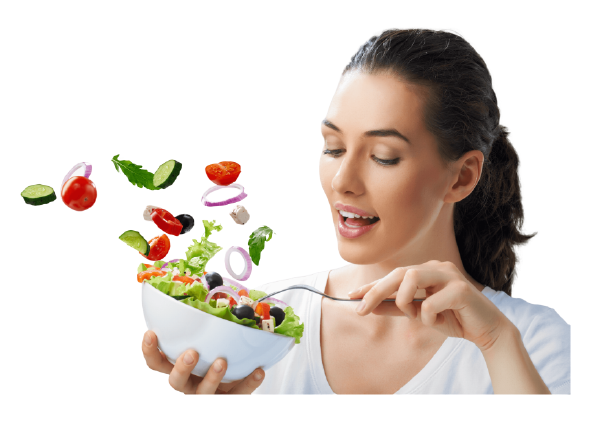
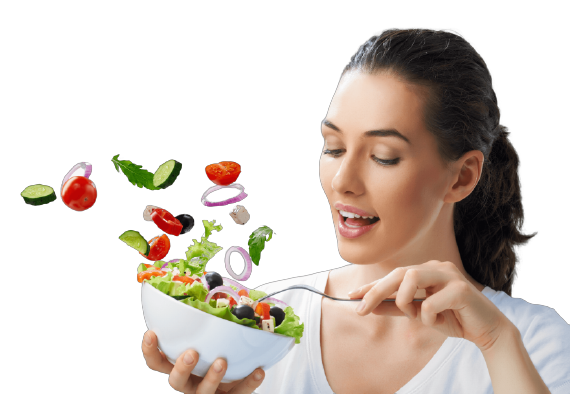
fixed-image

diff --git a/index.html b/index.html
@@ -1,98 +1,124 @@
 <!DOCTYPE html>
 <html lang="en">
-<head>
-    <meta charset="UTF-8">
-    <meta name="viewport" content="width=device-width, initial-scale=1.0">
+  <head>
+    <meta charset="UTF-8" />
+    <meta name="viewport" content="width=device-width, initial-scale=1.0" />
     <title>Food Factory</title>
-    <link rel="preconnect" href="https://fonts.googleapis.com">
-    <link rel="preconnect" href="https://fonts.gstatic.com" crossorigin>
+    <link rel="preconnect" href="https://fonts.googleapis.com" />
+    <link rel="preconnect" href="https://fonts.gstatic.com" crossorigin />
     <link
-        href="https://fonts.googleapis.com/css2?family=Belanosima&family=Oswald:wght@300;400&family=Poppins&family=Signika+Negative&display=swap"
-        rel="stylesheet">
-    <link rel="shortcut icon" href="images/female/02.png" type="image/x-icon">
-    <link rel="stylesheet" href="style.css">
-</head>
-<body>
-    <section class="section01">
-        <div class="half-width para01">
-            <h1><span class="orange">Skip</span> The Diet</h1>
-            <h1>Just Eat Healthy</h1>
-            <h1>With Food Network</h1>
-            <p>Indulge your taste buds in a tantalizing culinary experience with our exceptional offerings. At our establishment, we
-            take pride in providing you with a diverse array of healthy and delicious food that will leave you craving for more.
-            Each dish is meticulously crafted using the freshest ingredients, ensuring a harmonious blend of flavors that awaken
-            your senses.</p>
-            <p class="button">
-            <a class="button-config" target="_blank" href="">Order Now</a>
-            </p>
-        </div>
-        <div class="half-width">
-            <img class="img01" src="images/female/01.png" alt="">
-        </div>
+      href="https://fonts.googleapis.com/css2?family=Belanosima&family=Oswald:wght@300;400&family=Poppins&family=Signika+Negative&display=swap"
+      rel="stylesheet"
+    />
+    <link rel="shortcut icon" href="images/female/02.png" type="image/x-icon" />
+    <link rel="stylesheet" href="style.css" />
+  </head>
 
+  <body>
+    <section class="section01">
+      <div class="half-width para01">
+        <h1><span class="orange">Skip</span> The Diet</h1>
+        <h1>Just Eat Healthy</h1>
+        <h1>With Food Network</h1>
+        <p>
+          Indulge your taste buds in a tantalizing culinary experience with our
+          exceptional offerings. At our establishment, we take pride in
+          providing you with a diverse array of healthy and delicious food that
+          will leave you craving for more. Each dish is meticulously crafted
+          using the freshest ingredients, ensuring a harmonious blend of flavors
+          that awaken your senses.
+        </p>
+        <p class="button">
+          <a class="button-config" target="_blank" href="">Order Now</a>
+        </p>
+      </div>
+      <div class="half-width">
+        <img class="img01" src="images/female/01.png" alt="" />
+      </div>
     </section>
     <section class="section02">
-
-        <div class="half-width img02">
-            <img src="images/female/05.png" alt="">
-        </div>
-        <div class="half-width para02">
-            <h1>About Us</h1>
-            <p>Skipping diets and focusing on eating healthy is a smart choice for long-term well-being. Food Network can be a valuable
-            resource in this journey, providing an array of nutritious recipes and cooking tips. By exploring their wide range of
-            culinary options, individuals can discover delicious, wholesome meals that satisfy both their taste buds and nutritional
-            needs. Embracing a healthy eating lifestyle with the help of Food Network can lead to improved overall health and a more
-            enjoyable relationship with food.</p>
-            <p class="button">
-                <a class="button-config" target="_blank" href="">Read More</a>
-            </p>  
-       </div>
+      <div class="half-width img02">
+        <img src="images/female/05.png" alt="" />
+      </div>
+      <div class="half-width para02">
+        <h1>About Us</h1>
+        <p>
+          Skipping diets and focusing on eating healthy is a smart choice for
+          long-term well-being. Food Network can be a valuable resource in this
+          journey, providing an array of nutritious recipes and cooking tips. By
+          exploring their wide range of culinary options, individuals can
+          discover delicious, wholesome meals that satisfy both their taste buds
+          and nutritional needs. Embracing a healthy eating lifestyle with the
+          help of Food Network can lead to improved overall health and a more
+          enjoyable relationship with food.
+        </p>
+        <p class="button">
+          <a class="button-config" target="_blank" href="">Read More</a>
+        </p>
+      </div>
     </section>
-   <div class="para03">
-    <h1>Our Recipies</h1>
-    <p>Our Healthy diet recipes are made by choosing lean proteins, whole grains, plenty of fruits and vegetables, and
-        minimizing
-        added sugars and unhealthy fats.</p>
-   </div>
-   <section>
-    <div class="recipies-para">
-        <img class="img-bottom" src="images/food/Avocado-toast.jpg" alt="">
+    <div class="para03">
+      <h1>Our Recipies</h1>
+      <p>
+        Our Healthy diet recipes are made by choosing lean proteins, whole
+        grains, plenty of fruits and vegetables, and minimizing added sugars and
+        unhealthy fats.
+      </p>
+    </div>
+    <section>
+      <div class="recipies-para">
+        <img class="img-bottom" src="images/food/Avocado-toast.jpg" alt="" />
         <h1>Avocado Toast</h1>
-        <p>Mash ripe avocado onto whole grain toast, sprinkle with salt, pepper, and red pepper flakes for a quick
-        and nutritious breakfast or snack.</p>
-    </div>
-    <div class="recipies-para">
-        <img class="img-bottom" src="images/food/grilled.jpg" alt="">
+        <p>
+          Mash ripe avocado onto whole grain toast, sprinkle with salt, pepper,
+          and red pepper flakes for a quick and nutritious breakfast or snack.
+        </p>
+      </div>
+      <div class="recipies-para">
+        <img class="img-bottom" src="images/food/grilled.jpg" alt="" />
         <h1>Grilled Chicken Salad</h1>
-        <p>Grill chicken breast and serve on a bed of mixed greens, cherry tomatoes, sliced cucumbers, and a
-        squeeze of lemon for a protein-packed and satisfying salad.</p>
-    </div>
-    <div class="recipies-para">
-        <img class="img-bottom" src="images/food/baked-salmon-in-foil-recipe.jpg" alt="">
+        <p>
+          Grill chicken breast and serve on a bed of mixed greens, cherry
+          tomatoes, sliced cucumbers, and a squeeze of lemon for a
+          protein-packed and satisfying salad.
+        </p>
+      </div>
+      <div class="recipies-para">
+        <img
+          class="img-bottom"
+          src="images/food/baked-salmon-in-foil-recipe.jpg"
+          alt=""
+        />
         <h1>Salmon and Asparagus Foil Pack</h1>
-        <p>Place salmon fillet and asparagus spears on a sheet of foil, drizzle with lemon juice,
-        and season with herbs. Seal the foil and bake for an easy and nutritious dinner.</p>
-
-    </div>
-   </section>
-   <section class="section04">
-   <div class="social-media">
+        <p>
+          Place salmon fillet and asparagus spears on a sheet of foil, drizzle
+          with lemon juice, and season with herbs. Seal the foil and bake for an
+          easy and nutritious dinner.
+        </p>
+      </div>
+    </section>
+    <section class="section04">
+      <div class="social-media">
         <h1>700k</h1>
         <p>YouTube Subscribers</p>
-    </div>
-    <div class="social-media">
+      </div>
+      <div class="social-media">
         <h1>2.4m</h1>
         <p>Instagram Followers</p>
-    </div>
-    <div class="social-media">
+      </div>
+      <div class="social-media">
         <h1>100k</h1>
         <p>Dribble Likes</p>
-    </div>
+      </div>
     </section>
     <footer>
-        <h1><span class="orange">FOOD</span> NETWORK</h1>
-        <p><span class="white">Eat healthy to live healthy. Live healthy to live happy.</span> </p>
-        <p>© Musleh 2023 , Practicing Web Developing.</p>
+      <h1><span class="orange">FOOD</span> NETWORK</h1>
+      <p>
+        <span class="white"
+          >Eat healthy to live healthy. Live healthy to live happy.</span
+        >
+      </p>
+      <p><small>© Musleh 2023 , Practicing Web Developing.</small></p>
     </footer>
-</body>
+  </body>
 </html>

diff --git a/style.css b/style.css
@@ -1,42 +1,51 @@
-body{
+body {
     font-family: 'Belanosima', sans-serif;
     color: rgb(36, 36, 36);
     margin: 0;
     width: fit-content;
-    }
+}
+
 .orange {
     color: rgb(255, 111, 0) !important;
-}    
-h1 { 
+}
+
+h1 {
     font-weight: bold !important;
 }
+
 section {
     display: flex !important;
 }
+
 .half-width {
     width: 50%;
 }
+
 .para01 {
     margin-left: 80px;
     margin-top: 110px;
-    
+
 }
+
 img {
     max-width: 100%;
     max-height: 100%;
 }
+
 .img01 {
-    margin-left: px;
-    width: 100%;
-    
-   
+
+    width: 90%;
+    margin-left: 70px;
+    margin-top: -16px;
 }
+
 .section01 {
     background-image: url(images/shapes/7.png);
     background-size: 100%;
     background-repeat: no-repeat;
-    
-    }
+
+}
+
 .button-config {
     font-weight: 500;
     background-image: linear-gradient(to right, orange, rgba(255, 0, 0, 0.662));
@@ -47,13 +56,15 @@ img {
     cursor: ;
     /* box-shadow: 0 0 5px 1px rgba(255, 153, 0, 0.586); */
     font-size: smaller;
-   }
-   .button-config:hover{
+}
+
+.button-config:hover {
     box-shadow: 0 0 5px 1px rgba(255, 153, 0, 0.586);
-   }
+}
+
 .button {
     margin-top: 20px;
-   }
+}
 
 .section02 {
     background-image: url(images/shapes/Frame56.jpg);
@@ -61,28 +72,34 @@ img {
     background-repeat: no-repeat;
     margin-bottom: 20px;
     margin-top: -14px;
-   }
+}
+
 .img02 {
     margin-top: 100px;
     margin-left: 100PX;
     height: 500px;
-   }
+}
+
 .para02 {
     margin-top: 150px;
     margin-right: 50px;
-   }
+}
+
 .para03 {
     text-align: center;
     margin-top: 50px;
-   }
-   .para03 p{ 
+}
+
+.para03 p {
     width: 45%;
     margin: 0 30% 50px 30%;
-   }
-   .img-bottom {
+}
+
+.img-bottom {
     width: 500px;
     border-radius: 25px;
 }
+
 .recipies-para {
     margin-left: 3%;
     margin-right: 3%;
@@ -92,33 +109,38 @@ img {
     padding: 15px;
     width: 30%;
     margin-bottom: 80px;
-    }
-    .recipies-para:hover {
-        box-shadow: 8px 8px 8px 8px rgba(255, 230, 106, 0.333);
-        cursor:pointer;
-    }
-    
+}
+
+.recipies-para:hover {
+    box-shadow: 15px 8px 8px 8px rgba(255, 230, 106, 0.333);
+    cursor: pointer;
+}
+
 .social-media {
     width: 40%;
-   
+
     margin-left: 10%;
     margin-right: 10%;
-    /* margin-bottom: 50px; */ */
+    /* margin-bottom: 50px; */
+    */
 }
+
 .section04 {
     box-shadow: 10px 10px 10px 10px rgba(224, 224, 224, 0.608);
     border-radius: 10px;
     margin-bottom: 50px;
     margin-left: 40px;
     margin-right: 40px;
-   
+
 }
+
 footer {
     color: rgb(125, 125, 125);
     text-align: center;
     background-color: black;
     padding: 5px;
 }
+
 .white {
     color: aliceblue;
     font-weight: lighter;
